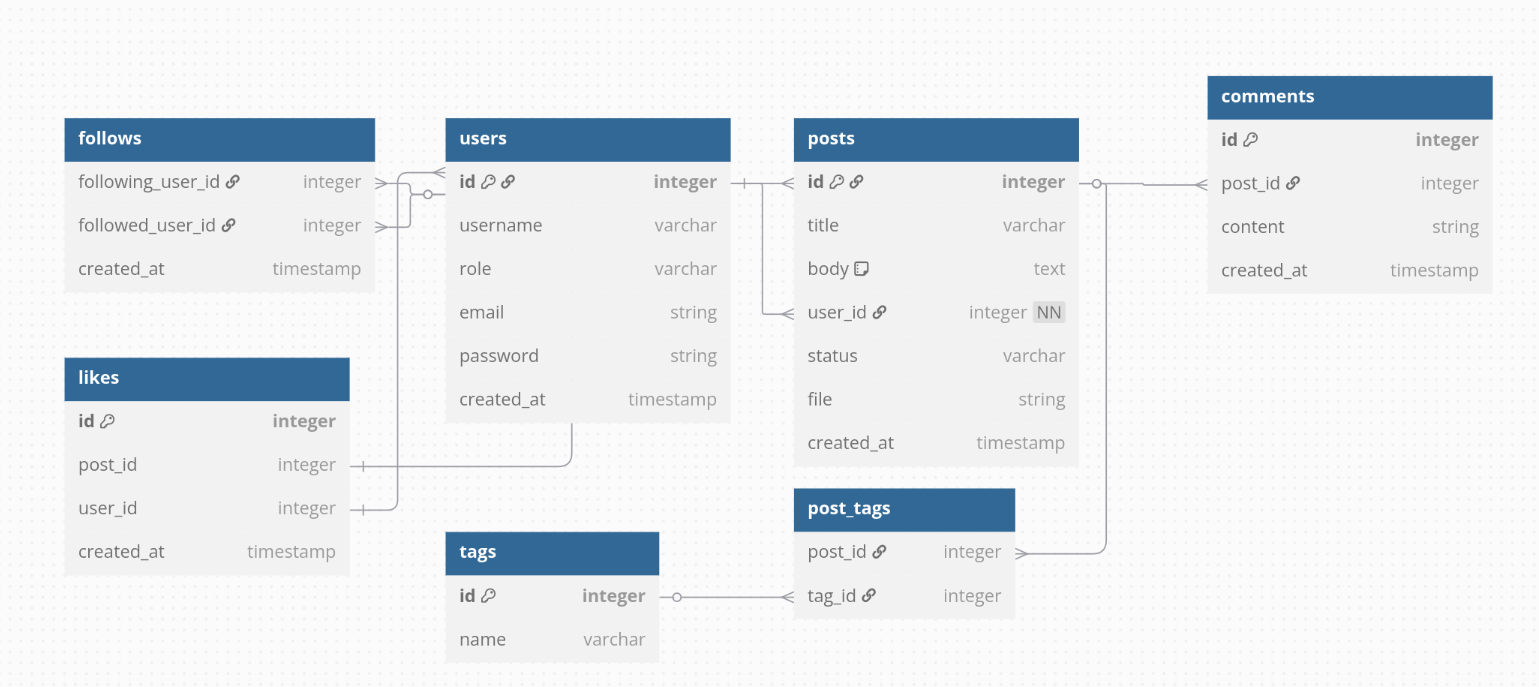
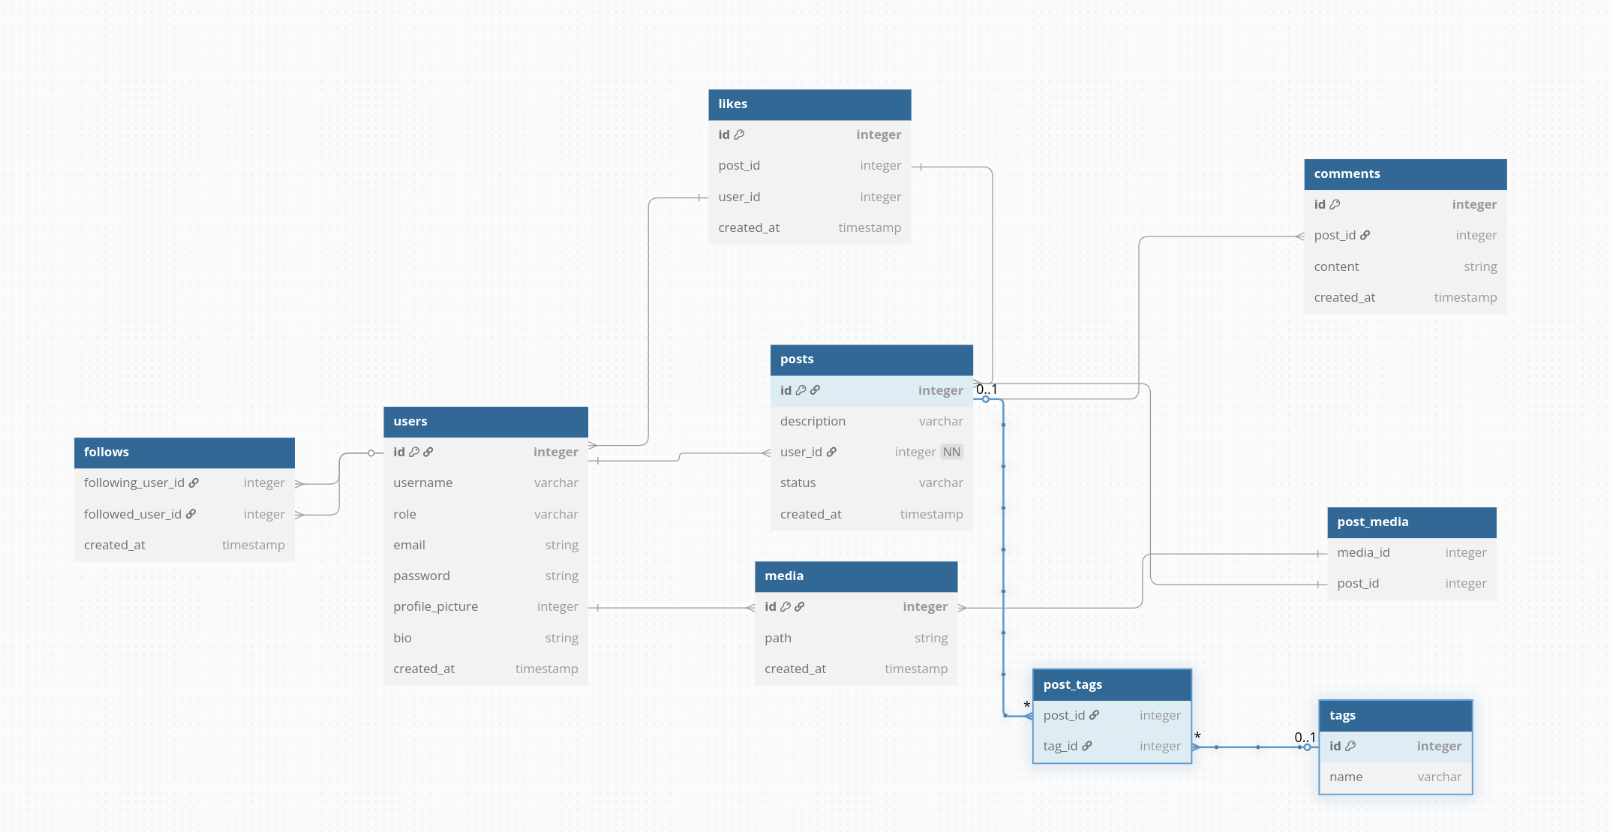
updated ERP

diff --git a/code/db/README.md b/code/db/README.md
@@ -1,7 +1,6 @@
 This is DBML Code. It can be edited and viewed on [dbdiagram.io](https://dbdiagram.io/d)
 
 ```
-// Use DBML to define your database structure
 // Docs: https://dbml.dbdiagram.io/docs
 
 Table follows {
@@ -16,17 +15,27 @@ Table users {
   role varchar
   email string
   password string
+  profile_picture integer
+  bio string
   created_at timestamp
 }
 
 Table posts {
   id integer [primary key]
-  title varchar
-  body text [note: 'Content of the post']
+  description varchar
   user_id integer [not null]
   status varchar
-  file string
   created_at timestamp
+}
+Table media {
+  id integer [primary key]
+  path string
+  created_at timestamp
+}
+
+Table post_media {
+  media_id integer
+  post_id integer
 }
 
 Table comments {
@@ -55,6 +64,9 @@ Table post_tags {
 Ref: post_tags.post_id > posts.id
 Ref: post_tags.tag_id > tags.id
 
+Ref: post_media.post_id < posts.id
+Ref: post_media.media_id < media.id
+Ref: users.profile_picture < media.id
 
 Ref: likes.user_id < users.id
 
@@ -67,5 +79,6 @@ Ref user_posts: posts.user_id > users.id // many-to-one
 Ref: users.id < follows.following_user_id
 
 Ref: users.id < follows.followed_user_id
+
 
 ```
